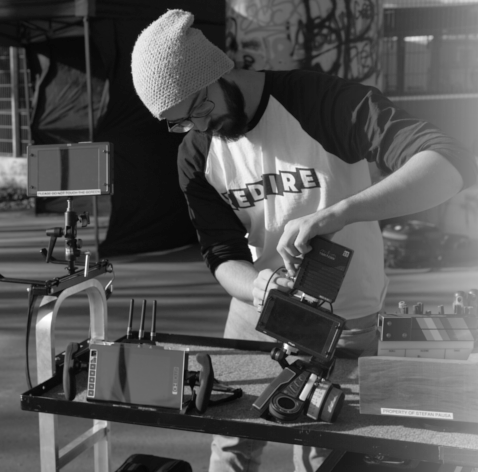
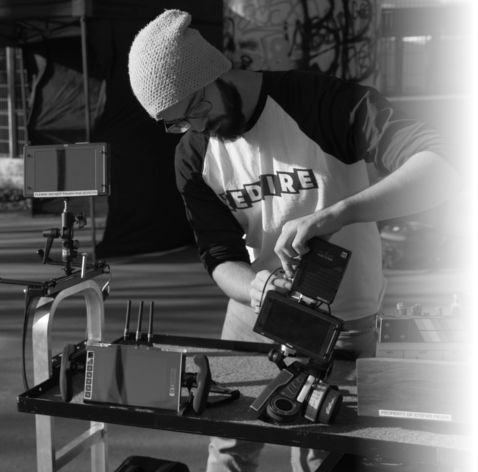
Vimeo Video

diff --git a/service_camera_tent.html b/service_camera_tent.html
@@ -145,17 +145,19 @@
 
       <!-- ---------------------------- -->
 
-    <div class="container-fluid custom-camera-tent">
+    <div class="container-fluid p-0 custom-camera-tent">
       <div class="row row-headline">
-        <div class="col-12 col-sm-4 my-3 my-sm-0 d-flex justify-content-center">
-          <img src="img/camera_tent/01_Daniel_Gear_Quer_sw_scaled_v1.png" alt="Daniel mit Equipment">
+        <div class="col-12 col-sm-4 my-3 my-sm-0 d-flex justify-content-center justify-content-sm-start">
+          <img class="d-none d-sm-block" src="img/camera_tent/01_Daniel_Gear_Quer_sw_scaled_v1.png" alt="Daniel mit Equipment">
+          <img class="d-sm-none" src="img/camera_tent/01_Daniel_Gear_Quer_sw_scaled_small_V1.JPG" alt="Daniel mit Equipment">
         </div>
         <div class="col-12 col-sm-4 custom-headline d-flex flex-column align-items-center justify-content-center">
           <h1>The Camera Tent</h1>
           <h2>High-End Camera Support aus einer Hand</h2>
         </div>
-        <div class="col-12 col-sm-4 my-3 my-sm-0 d-flex justify-content-center">
-          <img src="img/camera_tent/02_Stefan_Gear_rechts_sw_scaled_v1.JPG" alt="Stefan mit Equipment">
+        <div class="col-12 col-sm-4 my-3 my-sm-0 d-flex justify-content-center justify-content-sm-end">
+          <img class="d-none d-sm-block" src="img/camera_tent/02_Stefan_Gear_Quer_sw_scaled_v1.png" alt="Stefan mit Equipment">
+          <img class="d-sm-none"src="img/camera_tent/02_Stefan_Gear_Quer_sw_scaled_small_V1.JPG" alt="Stefan mit Equipment">
         </div>
       </div>
     </div>
@@ -253,7 +255,7 @@
                 <div class="card-header" id="headingSix">
                   <h2 class="mb-0">
                     <button class="btn btn-link collapsed" type="button" data-toggle="collapse" data-target="#collapseSix" aria-expanded="false" aria-controls="collapseSix">
-                      Kunden die wir bisher für The Camera Tent begeistern konnten
+                      Kunden
                     </button>
                   </h2>
                 </div>

diff --git a/css/service_camera_tent.css b/css/service_camera_tent.css
@@ -152,10 +152,19 @@ p, td, address{font-size:1.2rem;}
 }
 
 .custom-camera-tent .row-headline img {
-    width: 100%;
-    max-width: 288px;
+    /* width: 100%; */
+    max-width: 400px;
 }
 
+@media (max-width: 1200px) {
+    .custom-camera-tent .row-headline img {max-width: 310px;}
+}
+@media (max-width:991.98px){
+    .custom-camera-tent .row-headline img {max-width: 270px;}
+}
+@media (max-width:767.98px){
+    .custom-camera-tent .row-headline img {max-width: 180px;}
+}
 
 .custom-camera-tent .row-headline h1 {
     text-align: center;
@@ -169,19 +178,19 @@ p, td, address{font-size:1.2rem;}
 
 @media (max-width:991.98px){
     .custom-camera-tent .row-headline h1 {
-        font-size: 2.1rem;
+        font-size: 2rem;
     }
     .custom-camera-tent .row-headline h2 {
-        font-size: 1.6rem;
+        font-size: 1.5rem;
     }    
 }
 
 @media (max-width:767.98px){
     .custom-camera-tent .row-headline h1 {
-        font-size: 1.9rem;
+        font-size: 1.8rem;
     }
     .custom-camera-tent .row-headline h2 {
-        font-size: 1.4rem;
+        font-size: 1.3rem;
     }    
 }
 
@@ -189,9 +198,9 @@ p, td, address{font-size:1.2rem;}
 
 
 
-.custom-camera-tent .row-headline .custom-headline {
-    margin-bottom: 40px;
-}
+/* .custom-camera-tent .row-headline .custom-headline {
+    min-height: 320px;
+} */
 
 .background-accordion {
     background-color: #181818;

diff --git a/index.html b/index.html
@@ -148,10 +148,28 @@
 
 
       <div class="container-fluid custom-rw-logo-container">
-        <div class="row">
-          <div class="image-scale">
-            <img src="img/Redwire Logo_v06_small.png" alt="Main Logo Redwire Media Production">
+        <div class="row pb-2">
+
+          <div class="col-12 d-flex justify-content-center">
+            <div class="image-scale">
+              <img src="img/Redwire Logo_v06_small.png" alt="Main Logo Redwire Media Production">
+            </div>
           </div>
+
+          <div class="col-12 col-sm-10 col-md-8 col-lg-6 mb-4 mb-sm-5">
+            <div style="padding:56.25% 0 0 0;position:relative;width:100%">
+              <iframe
+                src="https://player.vimeo.com/video/408323958?color=991a1a&byline=0&portrait=0"
+                style="position:absolute;top:0;left:0;width:100%;height:100%;" 
+                frameborder="0" 
+                allow="autoplay; fullscreen"
+                allowfullscreen>
+              </iframe>
+            </div>
+            <script src="https://player.vimeo.com/api/player.js"></script>
+          </div>  
+
+
         </div>
       </div>
 

diff --git a/css/style.css b/css/style.css
@@ -161,7 +161,7 @@ p, td, address{font-size:1.2rem;}
 
 .custom-rw-logo-container{background:linear-gradient(to bottom, #ffffff 0%, #dddddd 75%, #777777);}
 .custom-rw-logo-container .row{justify-content:center;}
-.custom-rw-logo-container .image-scale{max-width:440px;margin:55px 12px 42px 12px;}
+.custom-rw-logo-container .image-scale{max-width:440px;margin:55px 12px 34px 12px;}
 .custom-rw-logo-container .image-scale img{width:100%;}
 @media (max-width:991.98px){.custom-rw-logo-container .image-scale{max-width:370px;margin-top:45px;margin-bottom:45px;}
 }
